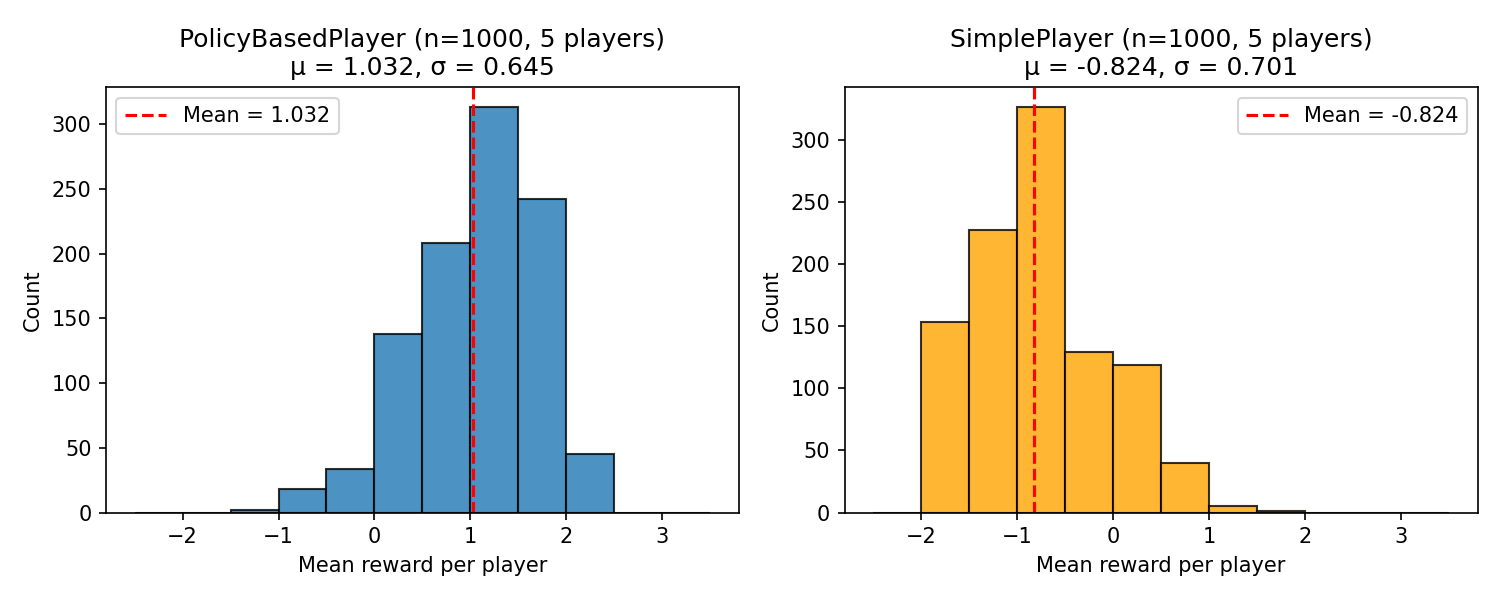
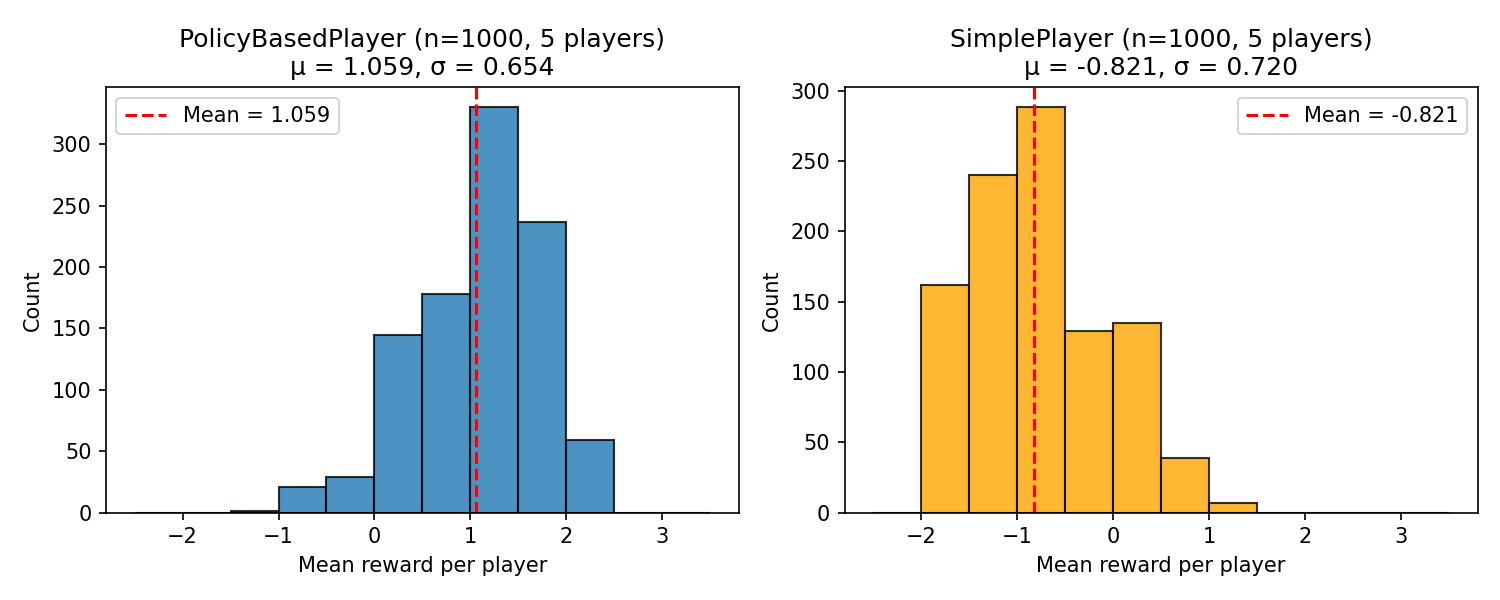
feat: shuffle strategy

diff --git a/game.py b/game.py
@@ -2,11 +2,10 @@
 
 from __future__ import annotations
 
-import random
 from dataclasses import dataclass, field
 from enum import Enum
 from typing import List, Optional
-
+from deck import SwooshShuffleStrategy, DeckShuffleStrategy
 
 class Suit(str, Enum):
     SPADES = "♠"
@@ -33,6 +32,12 @@ class Rank(str, Enum):
 
 # 10-value cards for blackjack (10, J, Q, K)
 TEN_VALUE_RANKS = {Rank.TEN, Rank.JACK, Rank.QUEEN, Rank.KING}
+
+# Standard deck order: 1 (Ace), 2, 3, ... 10, K, Q, J per suit
+STANDARD_RANK_ORDER = [
+    Rank.ACE, Rank.TWO, Rank.THREE, Rank.FOUR, Rank.FIVE, Rank.SIX,
+    Rank.SEVEN, Rank.EIGHT, Rank.NINE, Rank.TEN, Rank.KING, Rank.QUEEN, Rank.JACK,
+]
 
 
 @dataclass(frozen=True)
@@ -104,7 +109,8 @@ def raw_total(cards: List[Card]) -> int:
 
 
 def make_deck() -> List[Card]:
-    return [Card(s, r) for s in Suit for r in Rank]
+    """Return a new deck in standard order: 1, 2, ... 10, K, Q, J per suit."""
+    return [Card(s, r) for s in Suit for r in STANDARD_RANK_ORDER]
 
 
 class Action(str, Enum):
@@ -141,22 +147,40 @@ class PlayerState:
 class Game:
     """Single round: one dealer, positions 1..n_players (N = n_players + 1)."""
 
-    def __init__(self, n_players: int):
+    def __init__(
+        self,
+        n_players: int,
+        *,
+        first_shuffle: DeckShuffleStrategy | None = None,
+        subsequent_shuffle: DeckShuffleStrategy | None = None,
+    ):
         assert n_players >= 1
         self.n_players = n_players
         self.N = n_players + 1  # dealer + players
-        self.deck: List[Card] = []
+        self.deck: List[Card] = make_deck()
         self.players: List[PlayerState] = []
         self.current_turn: int = 1  # 1 to n_players, then 0 for dealer
         self.revealed: bool = False
+        self._first_deal = True
+        if first_shuffle is None or subsequent_shuffle is None:
+            default = SwooshShuffleStrategy()
+            self._first_shuffle = first_shuffle if first_shuffle is not None else default
+            self._subsequent_shuffle = subsequent_shuffle if subsequent_shuffle is not None else default
+        else:
+            self._first_shuffle = first_shuffle
+            self._subsequent_shuffle = subsequent_shuffle
 
     def _seat_order_for_deal(self) -> List[int]:
         """Order to deal: first card to 1, 2, ..., n_players, 0; then same again."""
         return list(range(1, self.N)) + [0]
 
     def deal(self) -> None:
-        self.deck = make_deck()
-        random.shuffle(self.deck)
+        # self.deck = make_deck()
+        if self._first_deal:
+            self._first_shuffle.shuffle(self.deck, is_first=True)
+            self._first_deal = False
+        else:
+            self._subsequent_shuffle.shuffle(self.deck, is_first=False)
         self.players = [PlayerState(position=k) for k in range(self.N)]
         order = self._seat_order_for_deal()
         for _ in range(2):

diff --git a/deck.py b/deck.py
@@ -1,0 +1,71 @@
+"""
+Deck creation (standard sorted order) and shuffle strategies.
+
+Initial deck order: standard playing order 1 (Ace), 2, 3, ... 10, K, Q, J per suit.
+Caller can specify different strategies for first shuffle vs subsequent shuffles.
+"""
+
+from __future__ import annotations
+
+import random
+from abc import ABC, abstractmethod
+from typing import Any
+
+# Deck is a list of cards (game.Card); typed as list to avoid circular import.
+
+
+class DeckShuffleStrategy(ABC):
+    """Base class for how to shuffle a deck (in-place)."""
+
+    @abstractmethod
+    def shuffle(self, deck: list[Any], *, is_first: bool = True) -> None:
+        """
+        Shuffle the deck in place.
+
+        :param deck: list of cards (modified in place)
+        :param is_first: True for the first shuffle of a session, False for subsequent shuffles
+        """
+        ...
+
+
+class SwooshShuffleStrategy(DeckShuffleStrategy):
+    """Randomly sort the cards (full random shuffle)."""
+
+    def shuffle(self, deck: list[Any], *, is_first: bool = True) -> None:
+        random.shuffle(deck)
+
+
+class DeckCuttingStrategy(DeckShuffleStrategy):
+    """
+    A random proportion of the deck is cut to the top, repeated n times.
+
+    Each cut: pick a proportion in [proportion_min, proportion_max] (e.g. 0.1 to 0.7),
+    then move that many cards from the 'bottom' of the deck to the top.
+    So deck becomes deck[cut_index:] + deck[:cut_index].
+    """
+
+    def __init__(
+        self,
+        proportion_min: float = 0.1,
+        proportion_max: float = 0.7,
+        n: int = 1,
+    ):
+        """
+        :param proportion_min: minimum fraction of deck to cut (0–1)
+        :param proportion_max: maximum fraction of deck to cut (0–1)
+        :param n: number of cuts to perform
+        """
+        self.proportion_min = proportion_min
+        self.proportion_max = proportion_max
+        self.n = n
+
+    def shuffle(self, deck: list[Any], *, is_first: bool = True) -> None:
+        for _ in range(self.n):
+            if len(deck) < 2:
+                return
+            proportion = random.uniform(self.proportion_min, self.proportion_max)
+            cut_index = int(len(deck) * proportion)
+            if cut_index <= 0 or cut_index >= len(deck):
+                continue
+            # Move deck[cut_index:] to top: new deck = bottom part + top part
+            deck[:] = deck[cut_index:] + deck[:cut_index]

diff --git a/benchmark.py b/benchmark.py
@@ -12,7 +12,7 @@ import argparse
 import json
 import random
 from pathlib import Path
-
+import matplotlib.pyplot as plt
 from game import (
     Game,
     Action,
@@ -160,13 +160,6 @@ def main() -> None:
     print("\nSimplePlayer:")
     print(f"  Mean reward (per player): {mean_simple:.4f}")
     print(f"  Std dev:                  {std_simple:.4f}")
-
-    # Plots
-    try:
-        import matplotlib.pyplot as plt
-    except ImportError:
-        print("\nmatplotlib not installed; skipping plots.")
-        return
 
     fig, axes = plt.subplots(1, 2, figsize=(10, 4))
     bin_edges = [x * 0.5 for x in range(-5, 8)]  # -2.5 to 3.5

diff --git a/train_agent.py b/train_agent.py
@@ -2,9 +2,7 @@
 """
 Train the Player agent using Monte Carlo control, then save the policy.
 
-Usage:
-  python train_agent.py [OPTIONS]
-  python train_agent.py --n-players 3 --episodes 500000 --epsilon 0.1
+uv run train_agent.py --n-players 3 --episodes 500000 --epsilon 0.1
 """
 
 from __future__ import annotations
